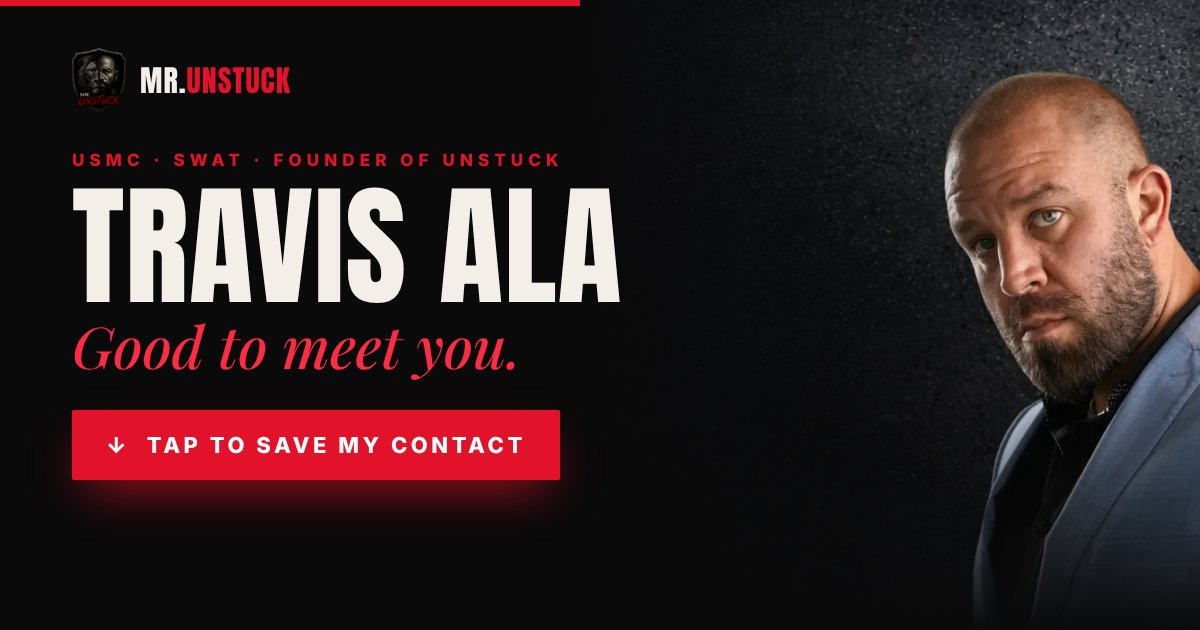
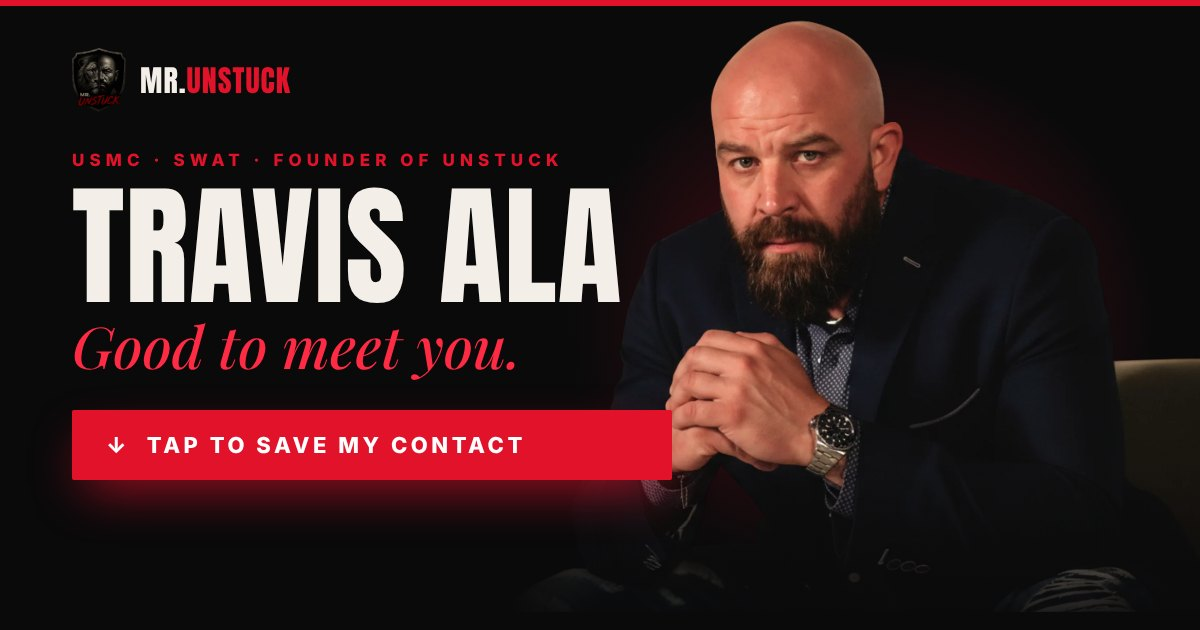
Contact card: swap hero headshot to new cutout; rebuild share image
New transparent cutout on ink with a red radial glow, text below with a gradient
fade; og-image.jpg re-rendered around the same shot. Removes the old portrait.

Claude-Session: https://claude.ai/code/session_01QpLd9GjTHzFuyhFicNgXg3

Changed region(s): [[0.4625, 0.0, 1.0, 0.9349], [0.4317, 0.4825, 0.7092, 0.8143], [0.8017, 0.8444, 0.8325, 0.9349]]

diff --git a/index.html b/index.html
@@ -2,7 +2,7 @@
 <title>Travis Ala | MRUNSTUCK</title><meta name="description" content="Travis Ala — Founder of UNSTUCK. Marine veteran, men's coach, speaker, host of the Notorious Sinner Podcast.">
 <meta property="og:type" content="profile"><meta property="og:url" content="https://contact.mrunstuck.com/"><meta property="og:title" content="Travis Ala | @MRUNSTUCK"><meta property="og:description" content="Marine veteran, former SWAT, founder of UNSTUCK. Tap to save my contact and tell me who you are."><meta property="og:image" content="https://contact.mrunstuck.com/og-image.jpg"><meta property="og:image:width" content="1200"><meta property="og:image:height" content="630"><meta property="og:image:alt" content="Travis Ala — Good to meet you. Tap to save my contact."><meta name="twitter:card" content="summary_large_image"><meta name="twitter:title" content="Travis Ala | @MRUNSTUCK"><meta name="twitter:description" content="Marine veteran, former SWAT, founder of UNSTUCK. Tap to save my contact and tell me who you are."><meta name="twitter:image" content="https://contact.mrunstuck.com/og-image.jpg"><meta name="theme-color" content="#0a0a0b"><link rel="icon" href="/unstuck-logo.png"><link rel="apple-touch-icon" href="/logo-square.jpg">
 <link rel="preconnect" href="https://fonts.gstatic.com" crossorigin>
-<link rel="preload" as="image" href="/travis-portrait.webp" fetchpriority="high">
+<link rel="preload" as="image" href="/travis-cutout.webp" fetchpriority="high">
 <link href="https://fonts.googleapis.com/css2?family=Anton&family=Inter:wght@400;500;600;700;800&family=Playfair+Display:ital,wght@1,500;1,700&display=swap" rel="stylesheet">
 <style>
 /* Brand tokens, mirrored from mrunstuck.com */
@@ -26,9 +26,9 @@ svg.i{width:20px;height:20px;fill:none;stroke:currentColor;stroke-width:1.9;stro
 .scanbtn svg.i{width:18px;height:18px}
 
 /* Hero */
-.hero{position:relative;overflow:hidden;min-height:420px;display:flex;flex-direction:column;justify-content:flex-end;padding-bottom:22px}
-.hero .ph{position:absolute;inset:0;z-index:0;background:url(/travis-portrait.webp) center 18% / cover no-repeat;filter:saturate(.85)}
-.hero .ph:after{content:'';position:absolute;inset:0;background:linear-gradient(180deg,rgba(10,10,11,.15) 0%,rgba(10,10,11,.55) 45%,var(--ink) 92%)}
+.hero{position:relative;overflow:hidden;min-height:700px;display:flex;flex-direction:column;justify-content:flex-end;padding-bottom:22px}
+.hero .ph{position:absolute;left:0;right:0;top:0;height:430px;z-index:0;background:radial-gradient(60% 62% at 52% 42%,rgba(227,18,43,.34) 0%,rgba(227,18,43,.10) 48%,rgba(10,10,11,0) 74%),url(/travis-cutout.webp) 52% 0 / 122% auto no-repeat}
+.hero .ph:after{content:'';position:absolute;inset:0;background:linear-gradient(180deg,rgba(10,10,11,0) 0%,rgba(10,10,11,0) 38%,rgba(10,10,11,.78) 70%,var(--ink) 96%)}
 .hero > .pad{position:relative;z-index:1}
 .eyebrow{font:700 11.5px/1.3 var(--sans);letter-spacing:.26em;text-transform:uppercase;color:var(--red)}
 h1{font-family:var(--display);font-weight:400;font-size:clamp(52px,15vw,68px);line-height:.95;letter-spacing:.5px;text-transform:uppercase;margin-top:10px;text-wrap:balance}

diff --git a/README.md b/README.md
@@ -34,3 +34,6 @@ That's by design for a business line. Never put a personal number in here.
 
 ## Scan mode
 The "Scan" button (top right) shows a full-screen QR code of this page with `?src=scan`, so the handshake happens on the OTHER person's phone when Travis is showing his own screen. "Text Them the Link" uses the phone's share sheet. The QR is generated in-page (no external library). Leads from it carry the `src-scan` tag.
+
+## Headshot
+The hero uses `travis-cutout.webp` (transparent cutout) over a red radial glow. To swap it, replace that file (keep it ~1400px wide with alpha) and re-render `og-image.jpg` (1200x630) so link previews match.
